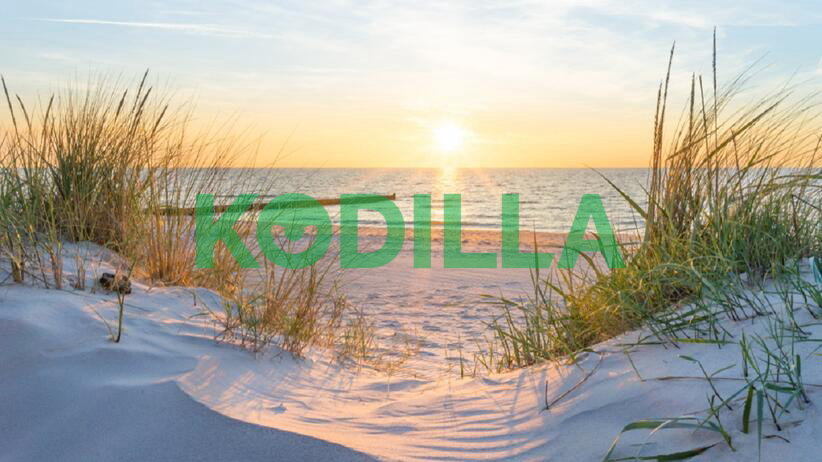
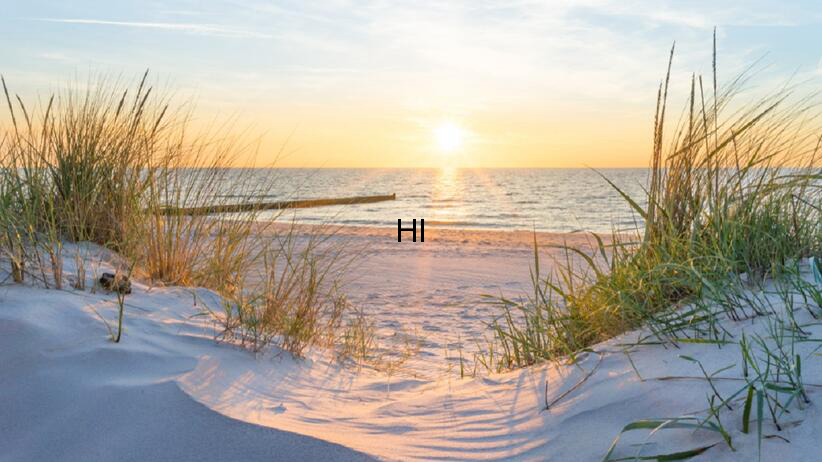
Additional task

Changed region(s): [[0.2129, 0.3939, 0.7603, 0.6061]]

diff --git a/app.js b/app.js
@@ -66,19 +66,53 @@ const addImageWatermarkToImage = async function(inputFile, outputFile, watermark
       message: 'What file do you want to mark?',
       default: 'test.jpg',
     }, {
+      name: 'changeFile',
+      message: 'Do you want to edit this file?',
+      type: 'confirm'
+    }]);
+    if(options.changeFile) {
+      const change = await inquirer.prompt([{
+        name: 'changesOption',
+        type: 'list',
+        choices: ['make image brighter', 'increase contrast', 'make image b&w', 'invert image'],
+      }])
+    } 
+
+    if(options.changeFile === 'make image brighter') {
+      const picture = await jimp.read('./img/' + options.inputImage);
+      picture.lighten(30);
+      console.log('Great! Your image is brighter')
+      } else if (options.changeFile === 'increase contrast') {
+        const picture = await jimp.read('./img/' + options.inputImage);
+        picture.contrast(70);
+        console.log('Great! Your image is more contrasting')
+      } else if (options.changeFile === 'make image b&w') {
+        async function greyscale() {
+          const picture = await jimp.read(options.inputImage);
+          picture.grayscale(0).write(options.inputImage);
+        }
+        greyscale();
+        console.log('Great! Your image is black & white')
+      } else {
+        const picture = await jimp.read('./img/' + options.inputImage);
+        picture.invert();
+        console.log('Great! Your image has been inverted.')
+      }
+    const optionType = await inquirer.prompt([{
       name: 'watermarkType',
       type: 'list',
       choices: ['Text watermark', 'Image watermark'],
-    }]);
-    if(options.watermarkType === 'Text watermark') {
+    }])
+
+    if(optionType.watermarkType === 'Text watermark') {
       const text = await inquirer.prompt([{
         name: 'value',
         type: 'input',
         message: 'Type your watermark text:',
       }]);
-      options.watermarkText = text.value;
+      optionType.watermarkText = text.value;
       if(fs.existsSync('./img/' + options.inputImage)) {
-        addTextWatermarkToImage('./img/' + options.inputImage, './img/' + prepareOutputFilename(options.inputImage), options.watermarkText);
+        addTextWatermarkToImage('./img/' + options.inputImage, './img/' + prepareOutputFilename(options.inputImage), optionType.watermarkText);
       }
       else {
         console.log('Something went wrong... Try again')
@@ -91,9 +125,9 @@ const addImageWatermarkToImage = async function(inputFile, outputFile, watermark
         message: 'Type your watermark name:',
         default: 'logo.png',
       }]);
-      options.watermarkImage = image.filename;
-      if(fs.existsSync(('./img/' + options.inputImage) && ('./img/' + options.watermarkImage))){
-        addImageWatermarkToImage('./img/' + options.inputImage, './img/' + prepareOutputFilename(options.inputImage), './img/' + options.watermarkImage);
+      optionType.watermarkImage = image.filename;
+      if(fs.existsSync(('./img/' + options.inputImage) && ('./img/' + optionType.watermarkImage))){
+        addImageWatermarkToImage('./img/' + options.inputImage, './img/' + prepareOutputFilename(options.inputImage), './img/' + optionType.watermarkImage);
       }
       else {
         console.log('Something went wrong... Try again')
